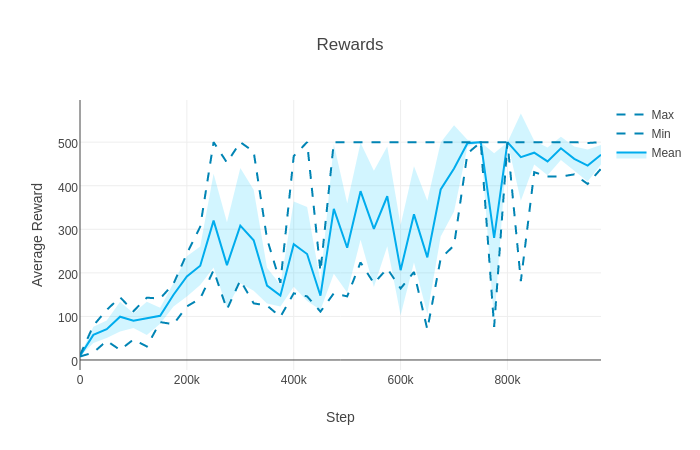
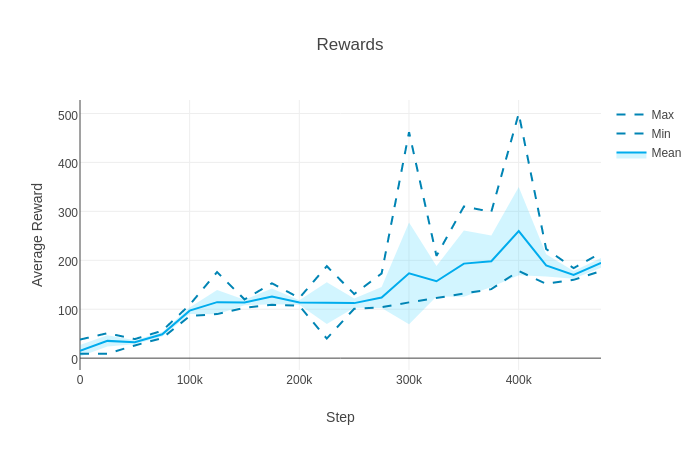
Simplify and add more experiments

diff --git a/train.py b/train.py
@@ -5,7 +5,7 @@ from torch import nn
 from torch.autograd import Variable
 
 from model import ActorCritic
-from utils import action_to_one_hot, extend_input, state_to_tensor
+from utils import state_to_tensor
 
 
 # Transfers gradients from thread-specific model to shared model
@@ -27,7 +27,6 @@ def train(rank, args, T, shared_model, optimiser):
 
   env = gym.make(args.env)
   env.seed(args.seed + rank)
-  action_size = env.action_space.n
   model = ActorCritic(env.observation_space, env.action_space, args.hidden_size, args.no_noise)
   model.train()
 
@@ -46,7 +45,7 @@ def train(rank, args, T, shared_model, optimiser):
       cx = Variable(torch.zeros(1, args.hidden_size))
       # Reset environment and done flag
       state = state_to_tensor(env.reset())
-      action, reward, done, episode_length = 0, 0, False, 0
+      done, episode_length = False, 0
     else:
       # Perform truncated backpropagation-through-time (allows freeing buffers after backwards call)
       hx = hx.detach()
@@ -57,9 +56,8 @@ def train(rank, args, T, shared_model, optimiser):
     values, log_probs, rewards, entropies = [], [], [], []
 
     while not done and t - t_start < args.t_max:
-      input = extend_input(state, action_to_one_hot(action, action_size), reward, episode_length)
       # Calculate policy and value
-      policy, value, (hx, cx) = model(Variable(input), (hx, cx))
+      policy, value, (hx, cx) = model(Variable(state), (hx, cx))
       log_policy = policy.log()
       entropy = -(log_policy * policy).sum(1)
 
@@ -73,7 +71,6 @@ def train(rank, args, T, shared_model, optimiser):
       state = state_to_tensor(state)
       reward = args.reward_clip and min(max(reward, -1), 1) or reward  # Optionally clamp rewards
       done = done or episode_length >= args.max_episode_length
-      episode_length += 1  # Increase episode counter
 
       # Save outputs for training
       [arr.append(el) for arr, el in zip((values, log_probs, rewards, entropies), (value, log_prob, reward, entropy))]
@@ -86,7 +83,7 @@ def train(rank, args, T, shared_model, optimiser):
     if done:
       R = Variable(torch.zeros(1, 1))
     else:
-      _, R, _ = model(Variable(input), (hx, cx))
+      _, R, _ = model(Variable(state), (hx, cx))
       R = R.detach()
     values.append(R)
 

diff --git a/test.py b/test.py
@@ -6,7 +6,7 @@ import torch
 from torch.autograd import Variable
 
 from model import ActorCritic
-from utils import action_to_one_hot, extend_input, state_to_tensor, plot_line
+from utils import state_to_tensor, plot_line
 
 
 def test(rank, args, T, shared_model):
@@ -14,7 +14,6 @@ def test(rank, args, T, shared_model):
 
   env = gym.make(args.env)
   env.seed(args.seed + rank)
-  action_size = env.action_space.n
   model = ActorCritic(env.observation_space, env.action_space, args.hidden_size, args.no_noise)
   model.eval()
 
@@ -40,7 +39,7 @@ def test(rank, args, T, shared_model):
             cx = Variable(torch.zeros(1, args.hidden_size), volatile=True)
             # Reset environment and done flag
             state = state_to_tensor(env.reset())
-            action, reward, done, episode_length = 0, 0, False, 0
+            done, episode_length = False, 0
             reward_sum = 0
             model.remove_noise()  # Run without noise
 
@@ -49,8 +48,7 @@ def test(rank, args, T, shared_model):
             env.render()
 
           # Calculate policy
-          input = extend_input(state, action_to_one_hot(action, action_size), reward, episode_length)
-          policy, _, (hx, cx) = model(Variable(input, volatile=True), (hx.detach(), cx.detach()))  # Break graph for memory efficiency
+          policy, _, (hx, cx) = model(Variable(state, volatile=True), (hx.detach(), cx.detach()))  # Break graph for memory efficiency
 
           # Choose action greedily
           action = policy.max(1)[1].data[0, 0]

diff --git a/main.py b/main.py
@@ -15,8 +15,8 @@ from utils import Counter
 parser = argparse.ArgumentParser(description='NoisyNet-A3C')
 parser.add_argument('--seed', type=int, default=123, help='Random seed')
 parser.add_argument('--num-processes', type=int, default=6, metavar='N', help='Number of training async agents (does not include single validation agent)')
-parser.add_argument('--T-max', type=int, default=1000000, metavar='STEPS', help='Number of training steps')
-parser.add_argument('--t-max', type=int, default=200, metavar='STEPS', help='Max number of forward steps for A3C before update')
+parser.add_argument('--T-max', type=int, default=500000, metavar='STEPS', help='Number of training steps')
+parser.add_argument('--t-max', type=int, default=100, metavar='STEPS', help='Max number of forward steps for A3C before update')
 parser.add_argument('--max-episode-length', type=int, default=500, metavar='LENGTH', help='Maximum episode length')
 parser.add_argument('--hidden-size', type=int, default=32, metavar='SIZE', help='Hidden size of LSTM cell')
 parser.add_argument('--model', type=str, metavar='PARAMS', help='Pretrained model (state dict)')

diff --git a/model.py b/model.py
@@ -47,10 +47,8 @@ class ActorCritic(nn.Module):
     self.relu = nn.ReLU(inplace=True)
     self.softmax = nn.Softmax()
 
-    # Pass state into model body
     self.fc1 = nn.Linear(self.state_size, hidden_size)
-    # Pass previous action, reward and timestep directly into LSTM
-    self.lstm = nn.LSTMCell(hidden_size + self.action_size + 2, hidden_size)
+    self.lstm = nn.LSTMCell(hidden_size, hidden_size)
     if no_noise:
       self.fc_actor = nn.Linear(hidden_size, self.action_size)
       self.fc_critic = nn.Linear(hidden_size, 1)
@@ -59,9 +57,8 @@ class ActorCritic(nn.Module):
       self.fc_critic = NoisyLinear(hidden_size, 1)
 
   def forward(self, x, h):
-    state, extra = x.narrow(1, 0, self.state_size), x.narrow(1, self.state_size, self.action_size + 2)
-    x = self.relu(self.fc1(state))
-    h = self.lstm(torch.cat((x, extra), 1), h)  # h is (hidden state, cell state)
+    x = self.relu(self.fc1(x))
+    h = self.lstm(x, h)  # h is (hidden state, cell state)
     x = h[0]
     policy = self.softmax(self.fc_actor(x)).clamp(max=1 - 1e-20)  # Prevent 1s and hence NaNs
     V = self.fc_critic(x)

diff --git a/utils.py b/utils.py
@@ -25,20 +25,6 @@ def state_to_tensor(state):
   return torch.from_numpy(state).float().unsqueeze(0)
 
 
-# Converts an action index and action space size into a one-hot batch tensor
-def action_to_one_hot(action_index, action_size):
-  action = torch.zeros(1, action_size)
-  action[0, action_index] = 1
-  return action
-
-
-# Creates an extended input (state + previous action + reward + timestep)
-def extend_input(state, action, reward, timestep):
-  reward = torch.Tensor([reward]).unsqueeze(0)
-  timestep = torch.Tensor([timestep]).unsqueeze(0)
-  return torch.cat((state, action, reward, timestep), 1)
-
-
 # Plots min, max and mean + standard deviation bars of a population over time
 def plot_line(xs, ys_population):
   max_colour = 'rgb(0, 132, 180)'

diff --git a/README.md b/README.md
@@ -2,7 +2,7 @@ NoisyNet-A3C
 ============
 [![MIT License](https://img.shields.io/badge/license-MIT-blue.svg)](LICENSE.md)
 
-NoisyNet [[1]](#references) (LSTM) asynchronous advantage actor-critic (A3C) [[2]](#references) with generalised advantage estimation (GAE) [[3]](#references). The agent also receives the previous action, reward and a step counter [[4]](#references). Run with `python main.py <options>`. Note that entropy regularisation can still be added by setting `--entropy-weight <value>`, but it is 0 by default. Run with `--no-noise` to run normal A3C (without noisy linear layers, but with entropy regularisation).
+NoisyNet [[1]](#references) (LSTM) asynchronous advantage actor-critic (A3C) [[2]](#references) with generalised advantage estimation (GAE) [[3]](#references). Run with `python main.py <options>`. Entropy regularisation can still be added by setting `--entropy-weight <value>`, but it is 0 by default. Run with `--no-noise` to run normal A3C (without noisy linear layers).
 
 Requirements
 ------------
@@ -17,11 +17,25 @@ Results
 
 ### NoisyNet-A3C
 
-![NoisyNet-A3C](figures/noisynet-a3c.png)
+On the whole, NoisyNet-A3C tends to be better than A3C (with or without entropy regularisation). There seems to be more variance, with both good and poor runs (two examples below), probably due to "deep" exploration.
 
-### A3C
+![Good-NoisyNet-A3C](figures/good-noisynet-a3c.png)
+
+![Bad-NoisyNet-A3C](figures/bad-noisynet-a3c.png)
+
+### A3C (no entropy regularisation)
+
+A3C without entropy regularisation usually performs poorly.
 
 ![A3C](figures/a3c.png)
+
+### A3C (entropy regularisation with β = 0.01)
+
+A3C with entropy regularisation usually performs a bit better than A3C without entropy regularisation, and also poor runs of NoisyNet-A3C. The performance tends to be significantly worse than the best NoisyNet-A3C runs.
+
+![A3C-entropy](figures/a3c-entropy.png)
+
+Note that due to the nondeterminism introduced by asynchronous agents, different runs on even the same seed can produce different results, and hence the results presented are only single samples of the performance of these algorithms. Interestingly, the general observations above seem to hold even when increasing the number of processes (experiments were repeated with 16 processes). These algorithms are still sensitive to the choice of hyperparameters, and will need to be tuned extensively to get good performance on other domains.
 
 Acknowledgements
 ----------------
@@ -34,4 +48,3 @@ References
 [1] [Noisy Networks for Exploration](https://arxiv.org/abs/1706.10295)  
 [2] [Asynchronous Methods for Deep Reinforcement Learning](http://arxiv.org/abs/1602.01783)  
 [3] [High-Dimensional Continuous Control Using Generalized Advantage Estimation](https://arxiv.org/abs/1506.02438)  
-[4] [Learning to Reinforcement Learn](https://arxiv.org/abs/1611.05763)  
